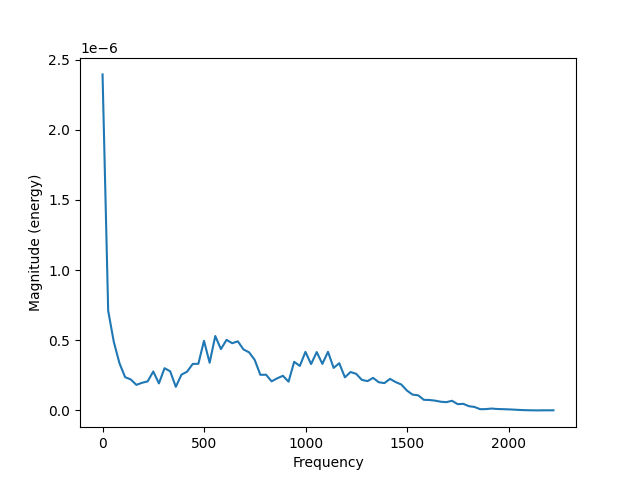
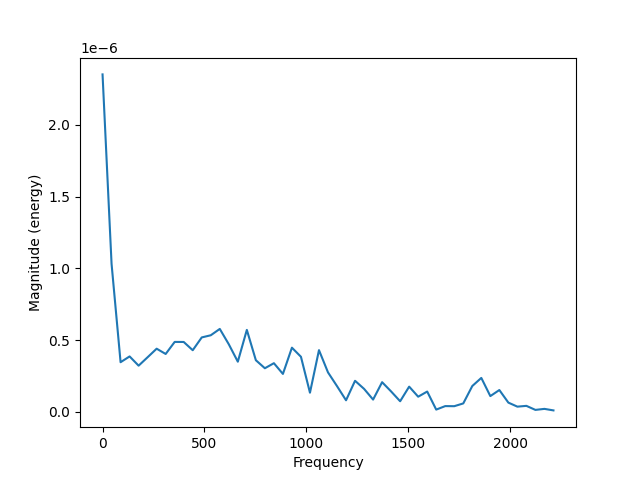
most up to date lowpass

diff --git a/Examples/lowpassEx.py b/Examples/lowpassEx.py
@@ -8,15 +8,14 @@ from scipy.signal import iirfilter, zpk2sos, sosfilt
 import warnings
 plt.switch_backend('agg')
 
-filterOrder = 6;
-integerDownsampleFactor = 5;
+integerDownsampleFactor = 8;
 #Run lowpass filter
 #(time,signal,filtered_signal,num_samples,sample_duration,sample_freq) = lowpass.runLowpass(integerDownsampleFactor,filterOrder);
 (time, signal, downsample_time, downsample_signal, sample_freq) = lowpass.runDownsample(integerDownsampleFactor);
 #(time,signal,filtered_signal,num_samples,sample_duration,sample_freq) = lowpass.runLowpass(integerDownsampleFactor,filterOrder);
 
 channelNumber = 50;
-startTime = 0.10;
+startTime = 0.05;
 endTime = 0.15;
 
 #Plot lowpass filter on channelNumber

diff --git a/SourceCode/lowpass.py b/SourceCode/lowpass.py
@@ -99,15 +99,6 @@ def plotLowpass(time,signal,downsampleTime,downsampledSignal,channelNumber,start
     plt.savefig('figures/lowpassFigure.png')
     plt.close()
 
-
-    fig = plt.figure(figsize=(10,10));
-    #plt.plot(time[first:last], signal[first:last,channelNumber], 'b-', label='signal')
-    plt.plot(downsampleTime[first_d:last_d], downsampledSignal[first_d:last_d, channelNumber], 'r-', label='downsampled signal')
-    plt.xlabel("Time (s)");
-    plt.ylabel("Amplitude");
-    plt.legend();
-    plt.savefig('figures/lowpassFigureDownsampled.png')
-    plt.close()
     
 def lowpass(data, freq, df, corners=4, zerophase=False):
     """
